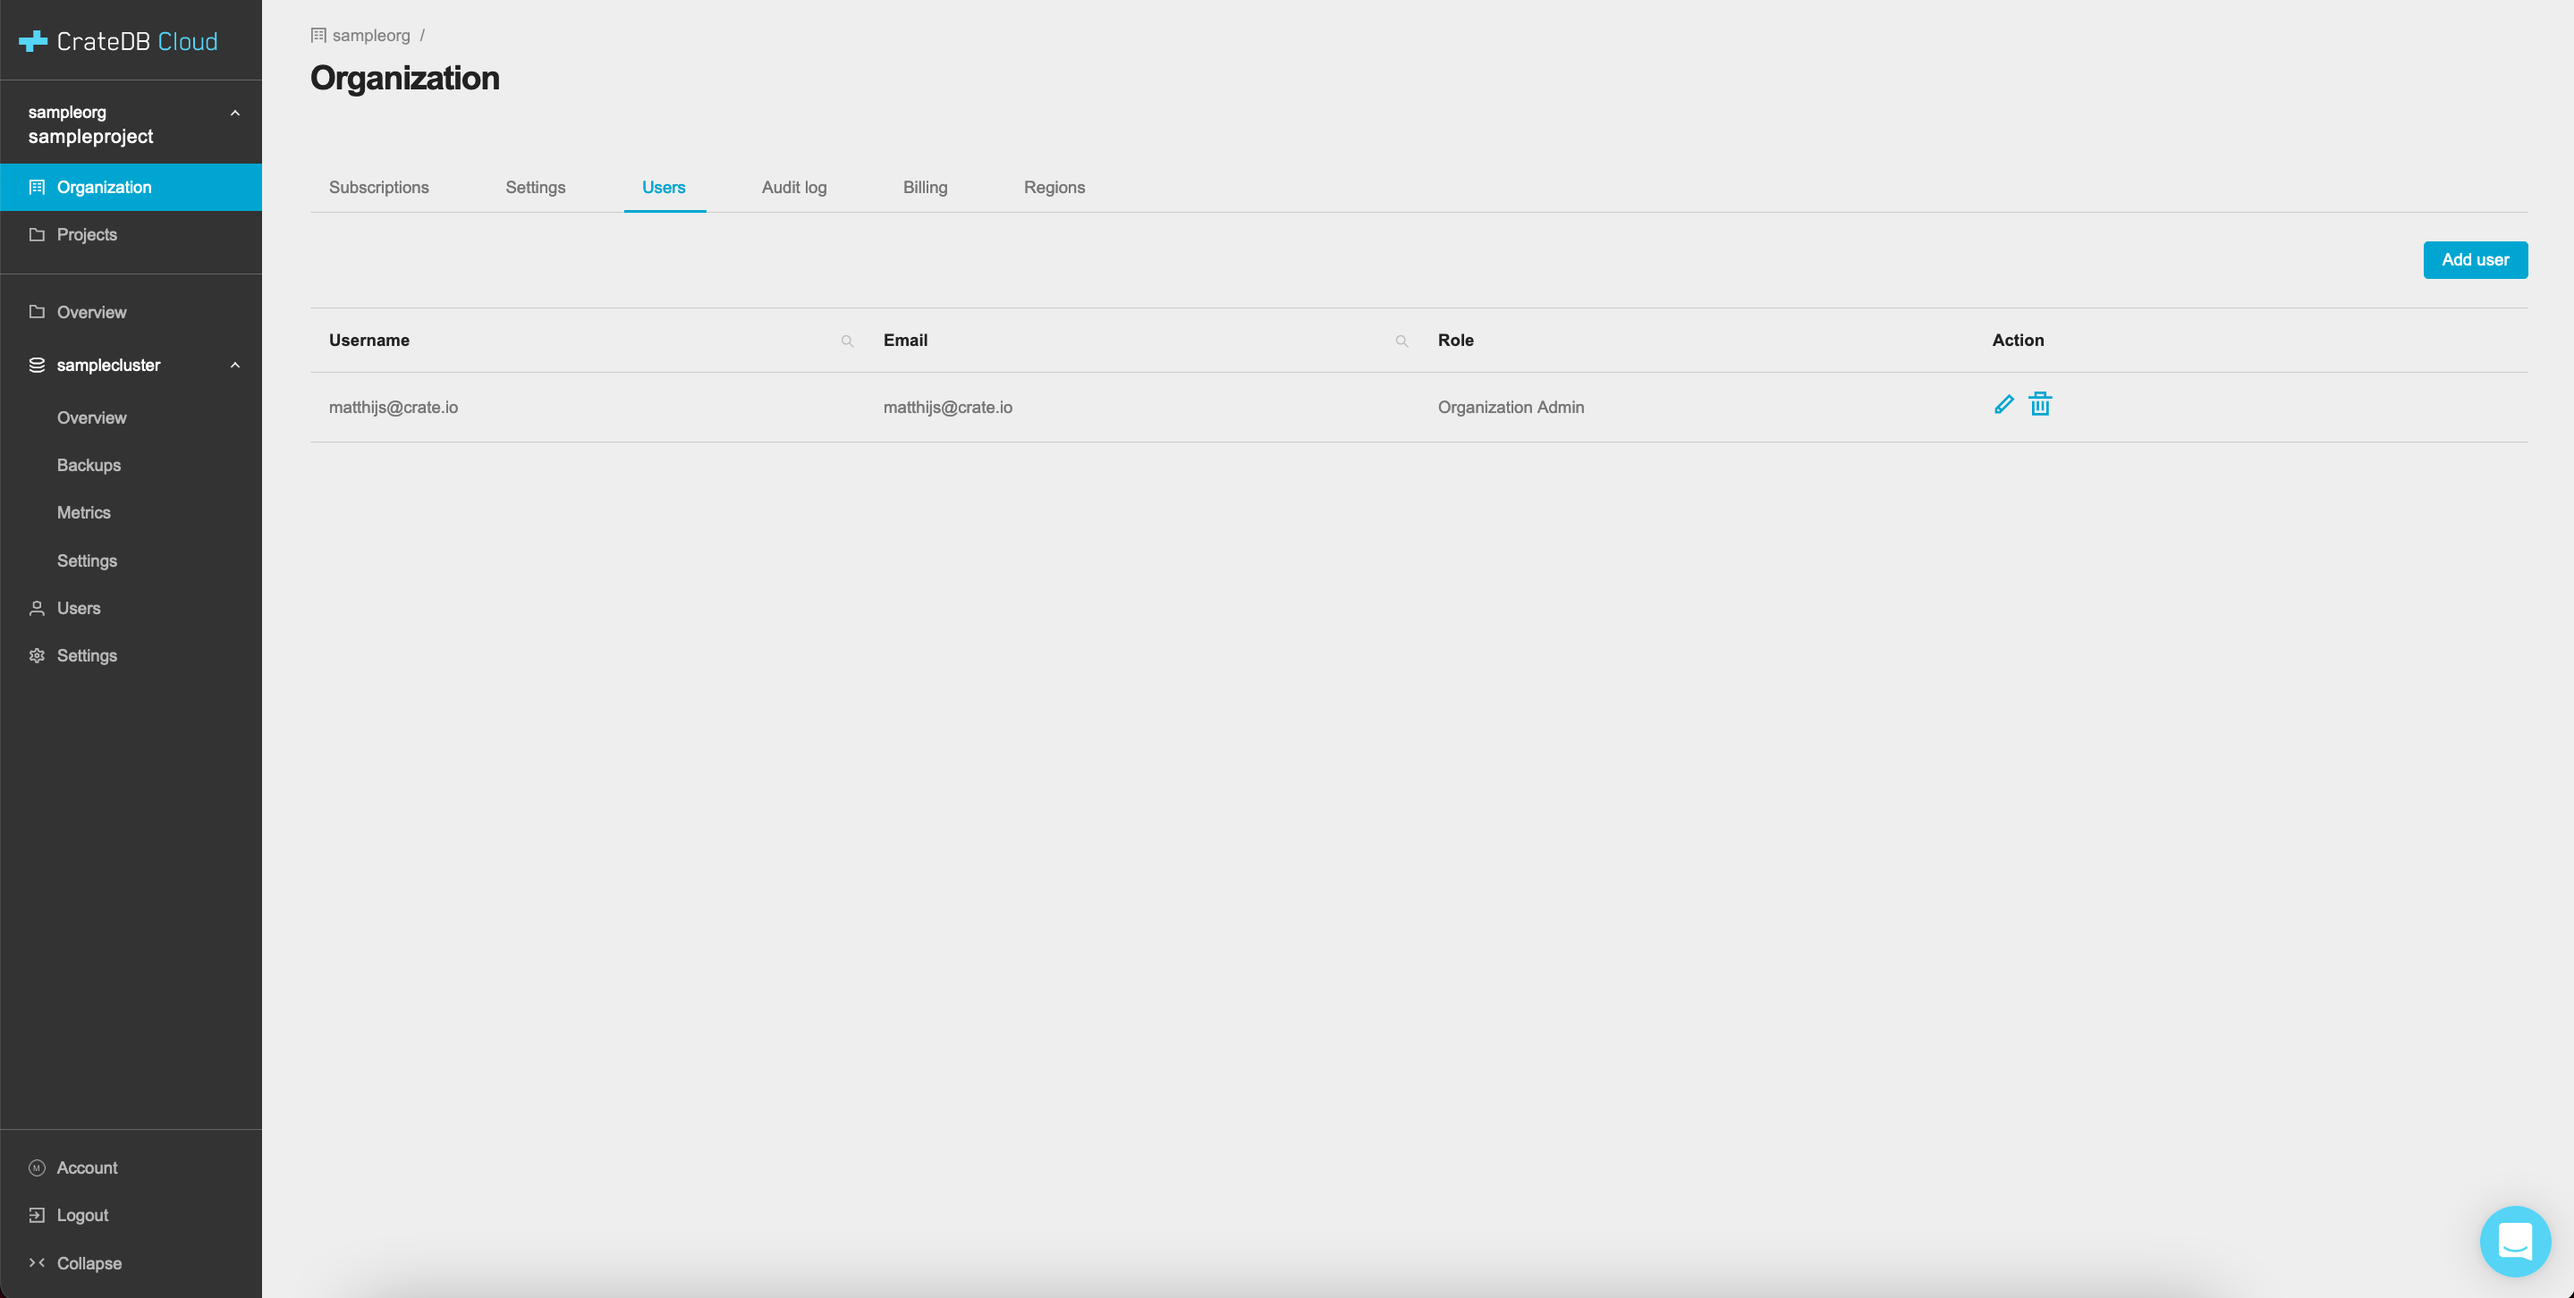
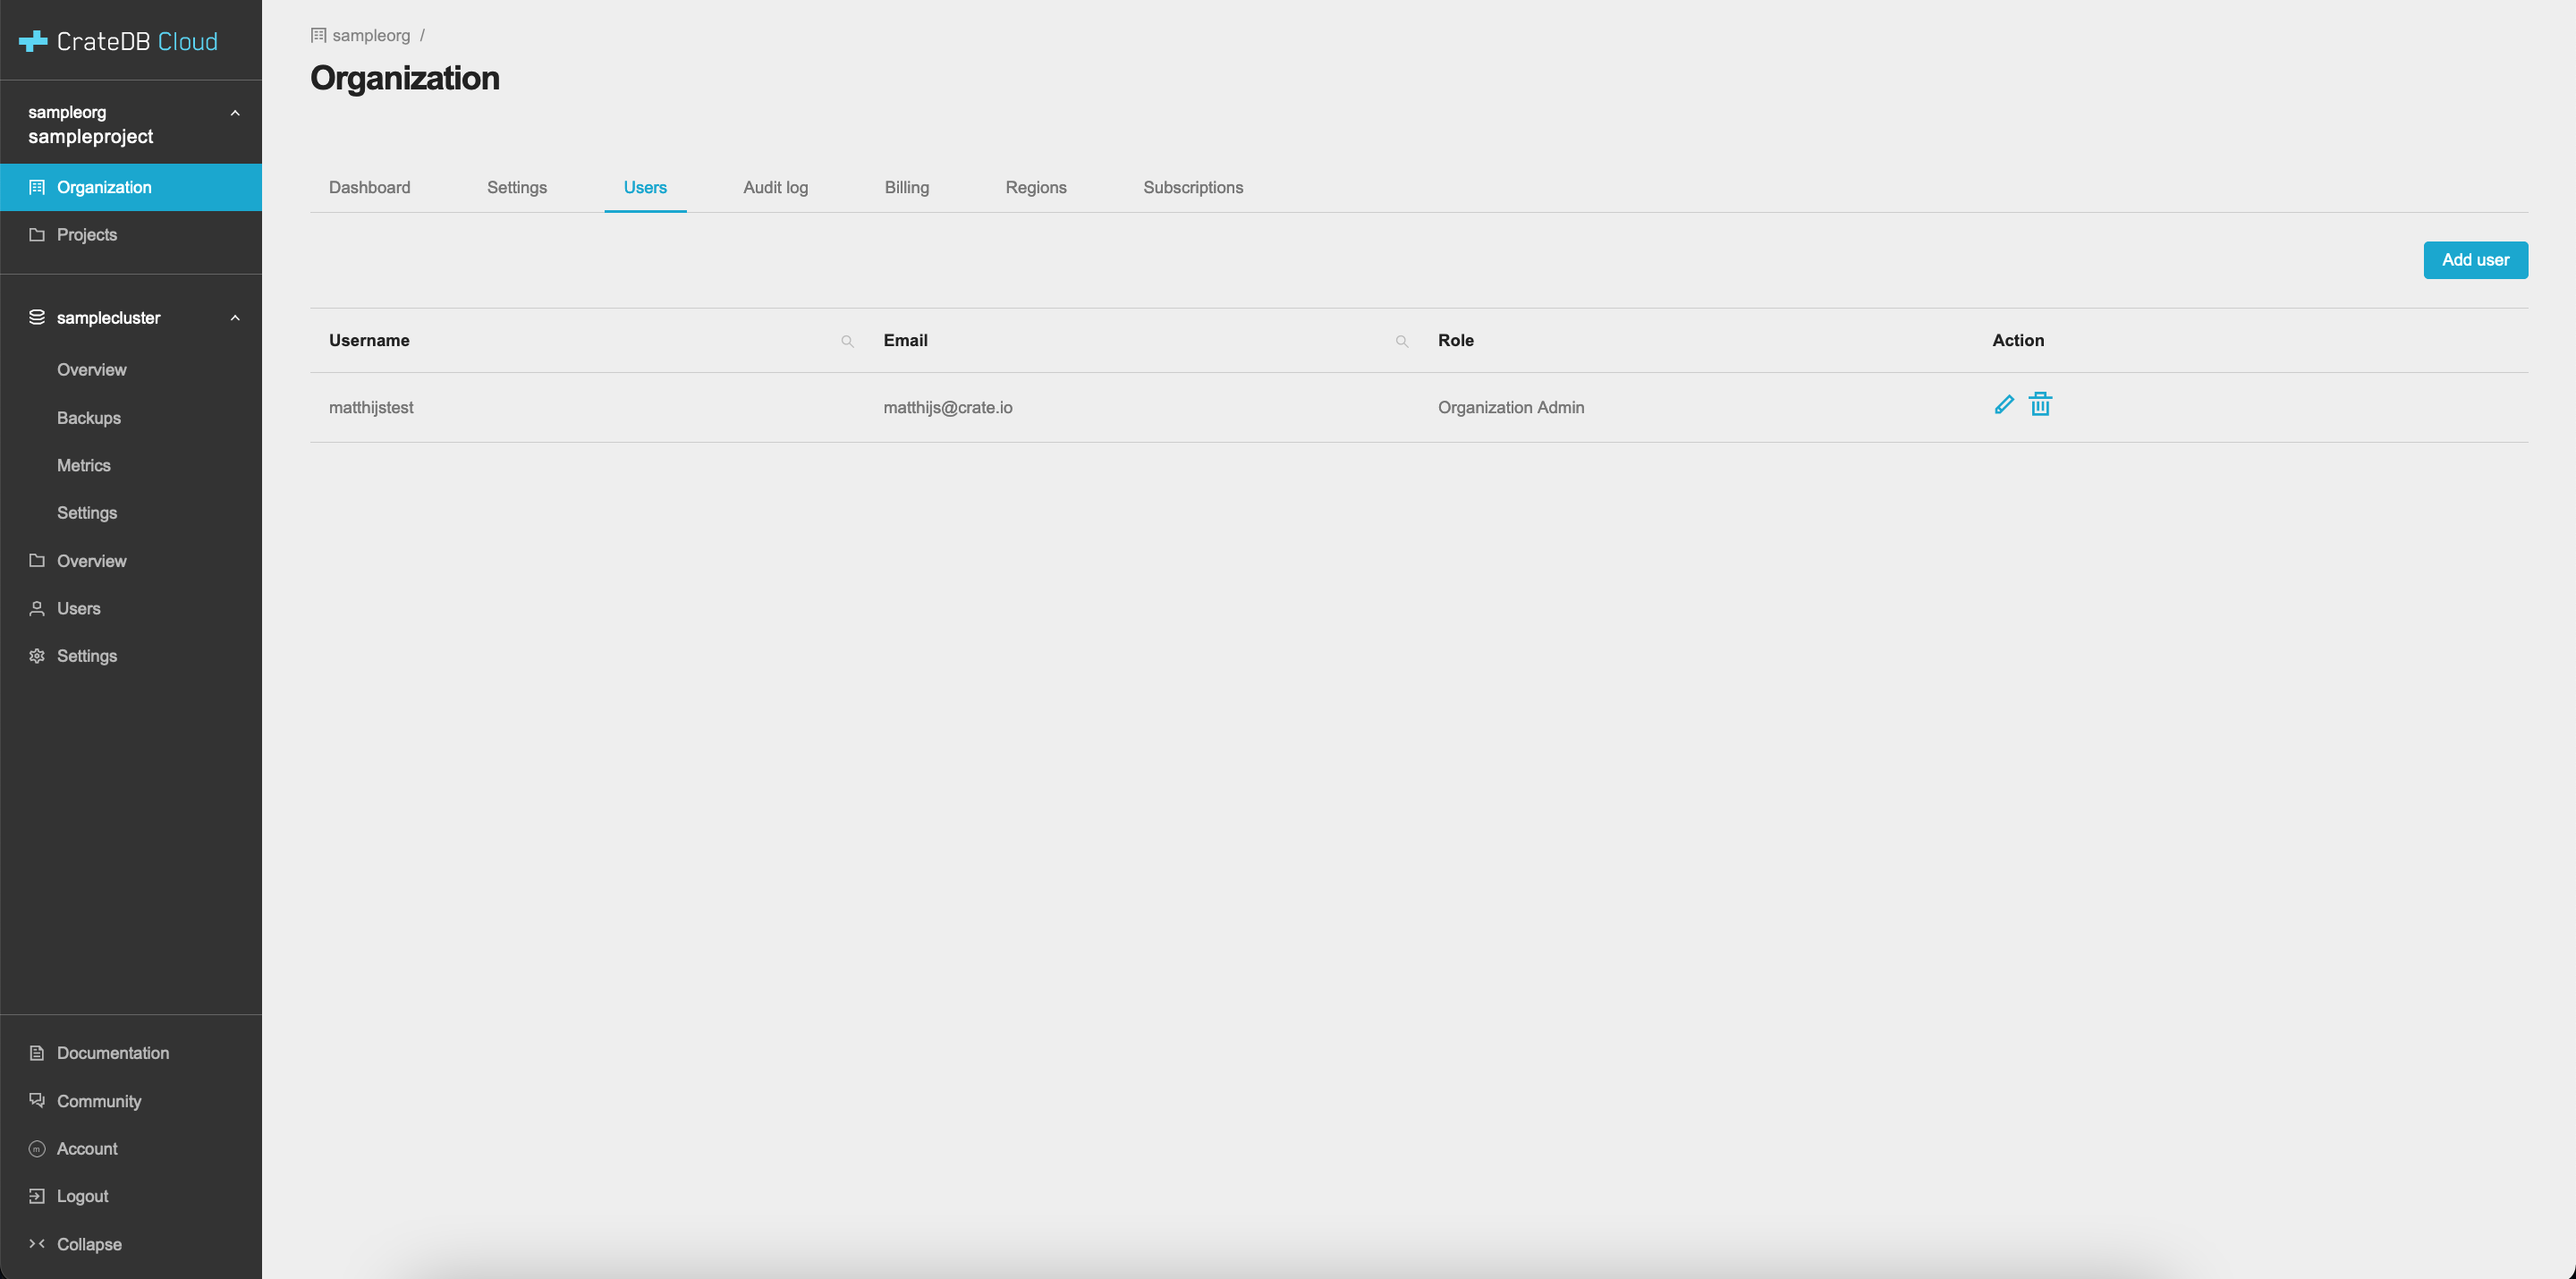
Refresh: update Console Overview doc to reflect single screen cluster deployment and other features

diff --git a/docs/overview.rst b/docs/overview.rst
@@ -66,22 +66,18 @@ The Organization Overview lists the organizations and projects you can access.
 If you follow the `tutorial`_ instructions and deploy a test cluster, your
 Organization Overview will look something like this:
 
-.. image:: _assets/img/organization-overview.png
+.. image:: _assets/img/organization-dashboard.png
    :alt: Cloud Console organization overview
 
-The Organization Overview consists of six tabs: *Subscriptions*, *Settings*,
-*Users*, the *Audit Log*, *Billing*, and finally, *Regions*. By default it
-shows the Subscriptions tab, which displays two things. On the left, it shows
-the possible cloud providers and a link for creating a subscription with them.
-On the right, you will see your current subscription (if any). This panel also
-shows subscription details: the status of the subscription, the subscription
-ID, the subscription cloud provider, the subscription type, and finally, any
-clusters deployed within the subscription with their respective subscription
-plans.
+The Organization Overview consists of seven tabs: *Dashboard*, *Settings*,
+*Users*, the *Audit Log*, *Billing*, *Regions*, and finally, *Subscriptions*.
+By default it shows the Dashboard tab, which displays two things. On the left,
+it shows a link for creating a new cluster, the blue *Deploy new cluster*
+button. On the right, you will see any already deployed clusters.
 
-The *Deploy cluster* button at the bottom left of any subscription panel allows
-you to directly deploy clusters within that subscription. The button with three
-dots at the bottom right allows you to cancel that subscription.
+The *Deploy cluster* button in the left panel allows you to directly deploy
+clusters within your subscription. For information on how to do so, refer to
+`our tutorial on direct cluster deployment`_.
 
 You can access the other tabs by clicking their respective names at the top.
 
@@ -91,21 +87,20 @@ You can access the other tabs by clicking their respective names at the top.
 Organization Settings
 ---------------------
 
-The Settings tab shows you naming information (name, ID) and notification
-settings for your organization.
+The Settings tab shows you the name, ID, and notification settings for your
+organization.
 
 .. image:: _assets/img/organization-settings.png
    :alt: Cloud Console organization settings tab
 
 By clicking the *Edit* button next to the organization, you can rename it. Here
 you can also set the email address for notifications and indicate whether you
-want to receive them or not. By clicking *Delete*, you can delete the
-organization.
+want to receive them or not.
 
 .. warning::
 
-    You cannot delete an organization without first deleting all projects
-    contained within it. Deleting an organization is irreversible.
+    Organizations cannot be deleted in the CrateDB Cloud Console. Contact
+    `CrateDB Cloud support`_ if you need to delete your organization.
 
 
 .. _overview-org-users:
@@ -174,10 +169,10 @@ by clicking the *Deploy cluster* button under each respective region field.
 .. image:: _assets/img/organization-regions.png
    :alt: Cloud Console organization regions tab
 
-This tab also allows the deployment of :ref:`CrateDB Edge <gloss-edge>`
-clusters in a :ref:`custom region <gloss-region>`. To do so, provide a name for
-the custom region and click the *Create edge region* button. Once created, the
-custom region will appear:
+For those with access to `CrateDB Edge`_, This tab also allows the deployment
+of :ref:`CrateDB Edge <gloss-edge>` clusters in a :ref:`custom region
+<gloss-region>`. To do so, provide a name for the custom region and click the
+*Create edge region* button. Once created, the custom region will appear:
 
 .. image:: _assets/img/organization-regions-edge.png
    :alt: Cloud Console organization edge region display
@@ -186,6 +181,20 @@ This field will show a script to set up the dependencies for cluster deployment
 in the custom region. Apply the script in your local CLI and follow the prompts
 to proceed. A ``--help`` parameter is available within the script for further
 information.
+
+
+.. _overview-org-subscriptions:
+
+Organization Subscriptions
+--------------------------
+
+In the Subscriptions tab you can create new subscriptions with one of our
+supported cloud providers, Microsoft Azure and AWS. In the panel, choose either
+*Microsoft Azure* or *Amazon AWS* to create a new subscription with that
+respective provider.
+
+.. image:: _assets/img/organization-subscriptions.png
+   :alt: Cloud Console organization subscriptions tab
 
 
 .. _overview-projects:
@@ -225,33 +234,6 @@ the main Projects page.
     project you selected on the Projects page.
 
 
-.. _overview-projects-overview:
-
-Project Overview
-----------------
-
-The Project Overview page provides information about the selected project.
-Underneath the project name and icon there is a column on the left hand,
-showing the total number of users in the project as well as the share of
-members and admins of that total.
-
-.. image:: _assets/img/project-overview.png
-   :alt: Cloud Console project overview page
-
-On the right, you see an overview of all clusters deployed within the project.
-This shows their status, the subscription plan and tier, the date and timestamp
-of their creation, the version of CrateDB they are running, and finally the
-subscription name associated with the cluster deployment. Clicking on this
-subscription name takes you to the :ref:`Subscriptions tab of the Organization
-page<overview-org-overview>`.
-
-Finally, you can also deploy a cluster from within the Project Overview, by
-clicking the *Deploy cluster* link at the top right. This also takes you back
-to the :ref:`Subscriptions tab of the Organization page
-<overview-org-overview>`, from where clusters can be deployed within a given
-subscription or a new subscription chosen.
-
-
 .. _overview-cluster-overview:
 
 Cluster Overview
@@ -288,19 +270,19 @@ information about the cluster. This includes:
     stateful connections (e.g., JDBC) must be configured to send keep-alive
     heartbeat queries.
 
-* **Cluster demo data**: Follow this link to quickly set up demo data for your
+* **Cluster Demo Data**: Follow this link to quickly set up demo data for your
   cluster. This will demonstrate in an easy way how it can be used in practice.
 
 * **Version**: This indicates the version number of CrateDB the cluster is
   running.
 
-* **Date Created**: The day of the original deployment of the cluster.
+* **Date created**: The day of the original deployment of the cluster.
 
 * **DB Username**: This shows once more the username associated with the
   cluster. You chose this username while setting up the cluster originally.
 
-* **Plan**: This shows what tier of which subscription plan the cluster is
-  running on. For more information on our plans, see the documentation on
+* **Plan**: This shows what subscription plan the cluster is running on. For
+  more information on our plans, see the documentation on
   `subscription plans`_.
 
 * **Subscription**: The name of the subscription itself, with a link to the
@@ -375,10 +357,16 @@ Cluster Settings
 The Cluster Settings page has two tabs: Cluster Access and Cluster Scale. The
 default tab, Cluster Access, shows you the username and password you defined to
 access your cluster directly. By clicking *Edit* at the top right, you can
-change the password.
+change the password (but not the username).
 
 .. image:: _assets/img/cluster-settings.png
    :alt: Cloud Console cluster settings page
+
+Below the username and password, you will find a tickbox for "Cluster
+Security". CLick the box labelled *Deletion Protected* to add deletion
+protection to your cluster. This will ensure that it can only be deleted in
+either the CrateDB Console or croud by a user with :ref:`org admin rights
+<org-roles>` (or a Crate.io employee superuser).
 
 
 .. _overview-cluster-settings-scale:
@@ -410,6 +398,33 @@ at the top right. It will prompt you for confirmation.
 .. WARNING::
 
     All cluster data will be lost on deletion. This action cannot be undone.
+
+
+.. _overview-projects-overview:
+
+Project Overview
+----------------
+
+The Project Overview page provides information about the selected project.
+Underneath the project name and icon there is a column on the left hand,
+showing the total number of users in the project as well as the share of
+members and admins of that total.
+
+.. image:: _assets/img/project-overview.png
+   :alt: Cloud Console project overview page
+
+On the right, you see an overview of all clusters deployed within the project.
+This shows their status, the subscription plan and tier, the date and timestamp
+of their creation, the version of CrateDB they are running, and finally the
+subscription name associated with the cluster deployment. Clicking on this
+subscription name takes you to the :ref:`Subscriptions tab of the Organization
+page<overview-org-overview>`.
+
+Finally, you can also deploy a cluster from within the Project Overview, by
+clicking the *Deploy cluster* link at the top right. This also takes you back
+to the :ref:`Subscriptions tab of the Organization page
+<overview-org-overview>`, from where clusters can be deployed within a given
+subscription or a new subscription chosen.
 
 
 .. _overview-project-users:
@@ -451,6 +466,25 @@ button at the top right. You can also change the project name by clicking the
     within that project. Deleting a project is irreversible.
 
 
+.. _overview-docs:
+
+Documentation
+=============
+
+The Documentation link takes you directly to the CrateDB Cloud documentation,
+which you are reading right now!
+
+
+.. _overview-community:
+
+Community
+=========
+
+The Community link goes to the `CrateDB and CrateDB Cloud Community page`_.
+Here you can ask members of the community and Crate.io employees questions
+about uncertainties or problems you are having when using our products.
+
+
 .. _overview-account:
 
 Account
@@ -478,16 +512,20 @@ Cloud Console.
 
 .. _aks1.eastus2.azure.cratedb.cloud: https://eastus2.azure.cratedb.cloud/
 .. _eks1.eu-west-1.aws.cratedb.cloud: https://eks1.eu-west-1.aws.cratedb.cloud
-.. _aks1.westeurope.azure.cratedb.cloud: https://westeurope.azure.cratedb.cloud/
+.. _aks1.westeurope.azure.cratedb.cloud: https://aks1.westeurope.azure.cratedb.cloud/
 .. _an organization admin: https://crate.io/docs/cloud/reference/en/latest/user-roles.html#organization-roles
 .. _bregenz.a1.cratedb.cloud: https://bregenz.a1.cratedb.cloud/
 .. _concepts: https://crate.io/docs/cloud/reference/en/latest/concepts.html
 .. _CrateDB Admin UI: https://crate.io/docs/clients/admin-ui/
+.. _CrateDB and CrateDB Cloud Community page: https://community.crate.io/
 .. _CrateDB architecture documentation: https://crate.io/docs/crate/howtos/en/latest/architecture/shared-nothing.html
 .. _CrateDB Cloud: https://crate.io/products/cratedb-cloud/
+.. _CrateDB Cloud support: support@crate.io
+.. _CrateDB Edge: https://crate.io/products/cratedb-edge/
 .. _glossary: https://crate.io/docs/cloud/reference/en/latest/glossary.html
 .. _HTTP: https://crate.io/docs/crate/reference/en/latest/interfaces/http.html
 .. _Microsoft Azure: https://azure.microsoft.com/en-us/
+.. _our tutorial on direct cluster deployment: https://crate.io/docs/cloud/tutorials/en/latest/cluster-deployment/stripe.html
 .. _PostgreSQL wire protocol: https://crate.io/docs/crate/reference/en/latest/interfaces/postgres.html
 .. _scaling the cluster: https://crate.io/docs/cloud/howtos/en/latest/scale-cluster.html
 .. _signup tutorial: https://crate.io/docs/cloud/tutorials/en/latest/sign-up.html
